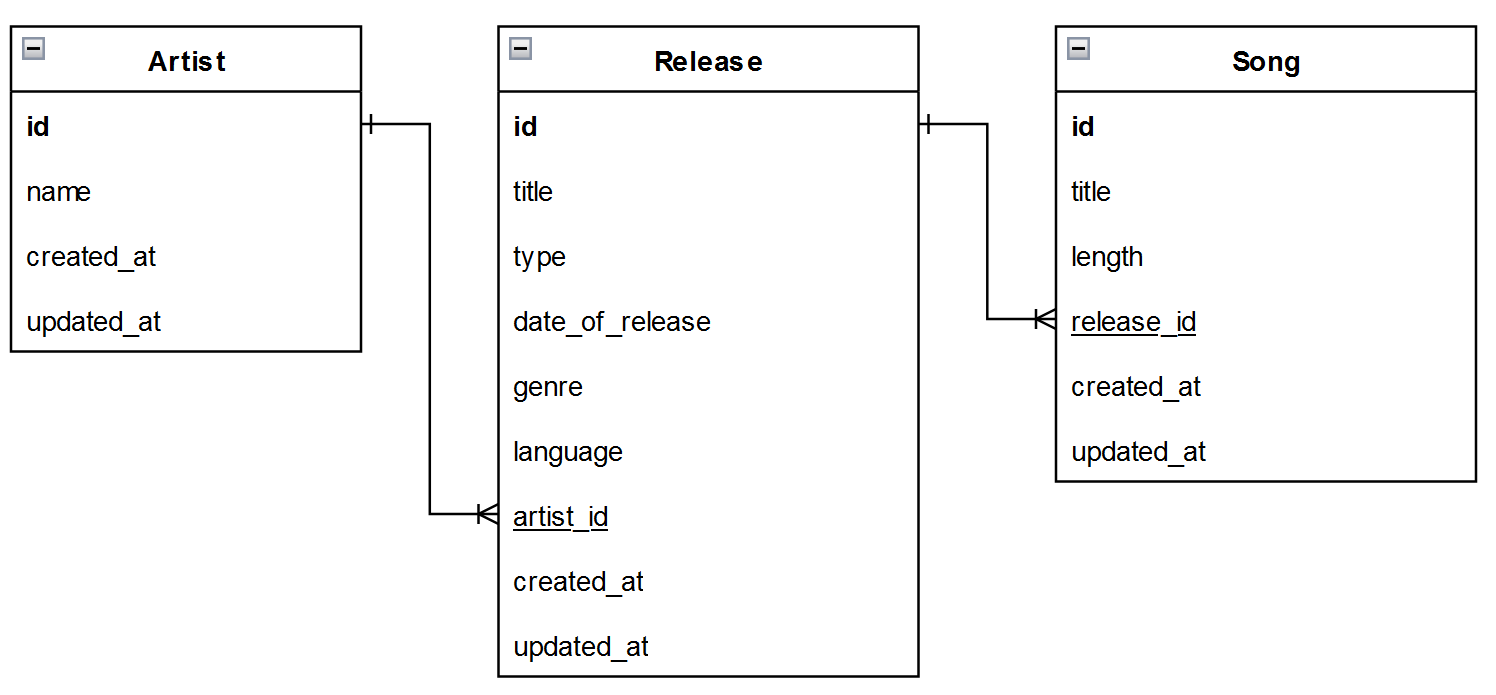
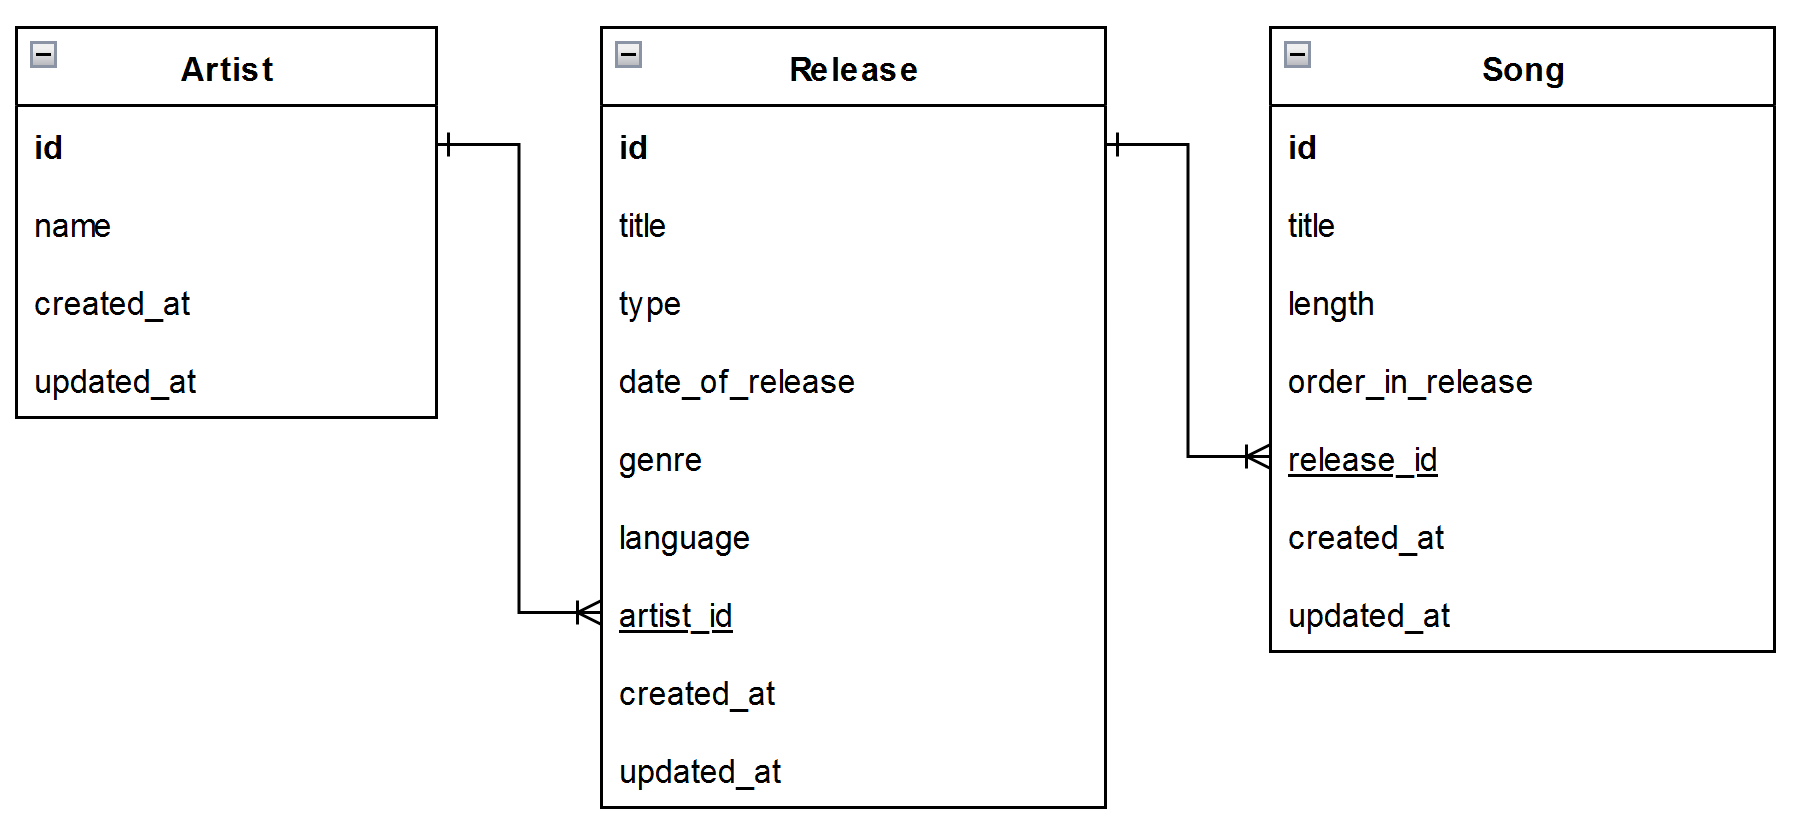
updated Song model to include order in release

diff --git a/db/schema.rb b/db/schema.rb
@@ -10,7 +10,7 @@
 #
 # It's strongly recommended that you check this file into your version control system.
 
-ActiveRecord::Schema[8.0].define(version: 2025_01_05_172156) do
+ActiveRecord::Schema[8.0].define(version: 2025_01_05_174203) do
   create_table "artists", force: :cascade do |t|
     t.string "name"
     t.datetime "created_at", null: false
@@ -35,6 +35,7 @@ ActiveRecord::Schema[8.0].define(version: 2025_01_05_172156) do
     t.integer "release_id", null: false
     t.datetime "created_at", null: false
     t.datetime "updated_at", null: false
+    t.integer "order_in_release"
     t.index ["release_id"], name: "index_songs_on_release_id"
   end
 

diff --git a/app/models/song.rb b/app/models/song.rb
@@ -3,6 +3,7 @@ class Song < ApplicationRecord
 
   validates :title, presence: true
   validates :length, presence: true, numericality: { only_integer: true, greater_than_or_equal_to: 0 }
+  validates :order_in_release, presence: true, numericality: { only_integer: true, greater_than_or_equal_to: 1 }
   validates :release, presence: true
 
   # Метод для получения длины в формате MM:SS

diff --git a/db/migrate/20250105174203_add_order_in_release_to_songs.rb b/db/migrate/20250105174203_add_order_in_release_to_songs.rb
@@ -1,0 +1,5 @@
+class AddOrderInReleaseToSongs < ActiveRecord::Migration[8.0]
+  def change
+    add_column :songs, :order_in_release, :integer
+  end
+end
